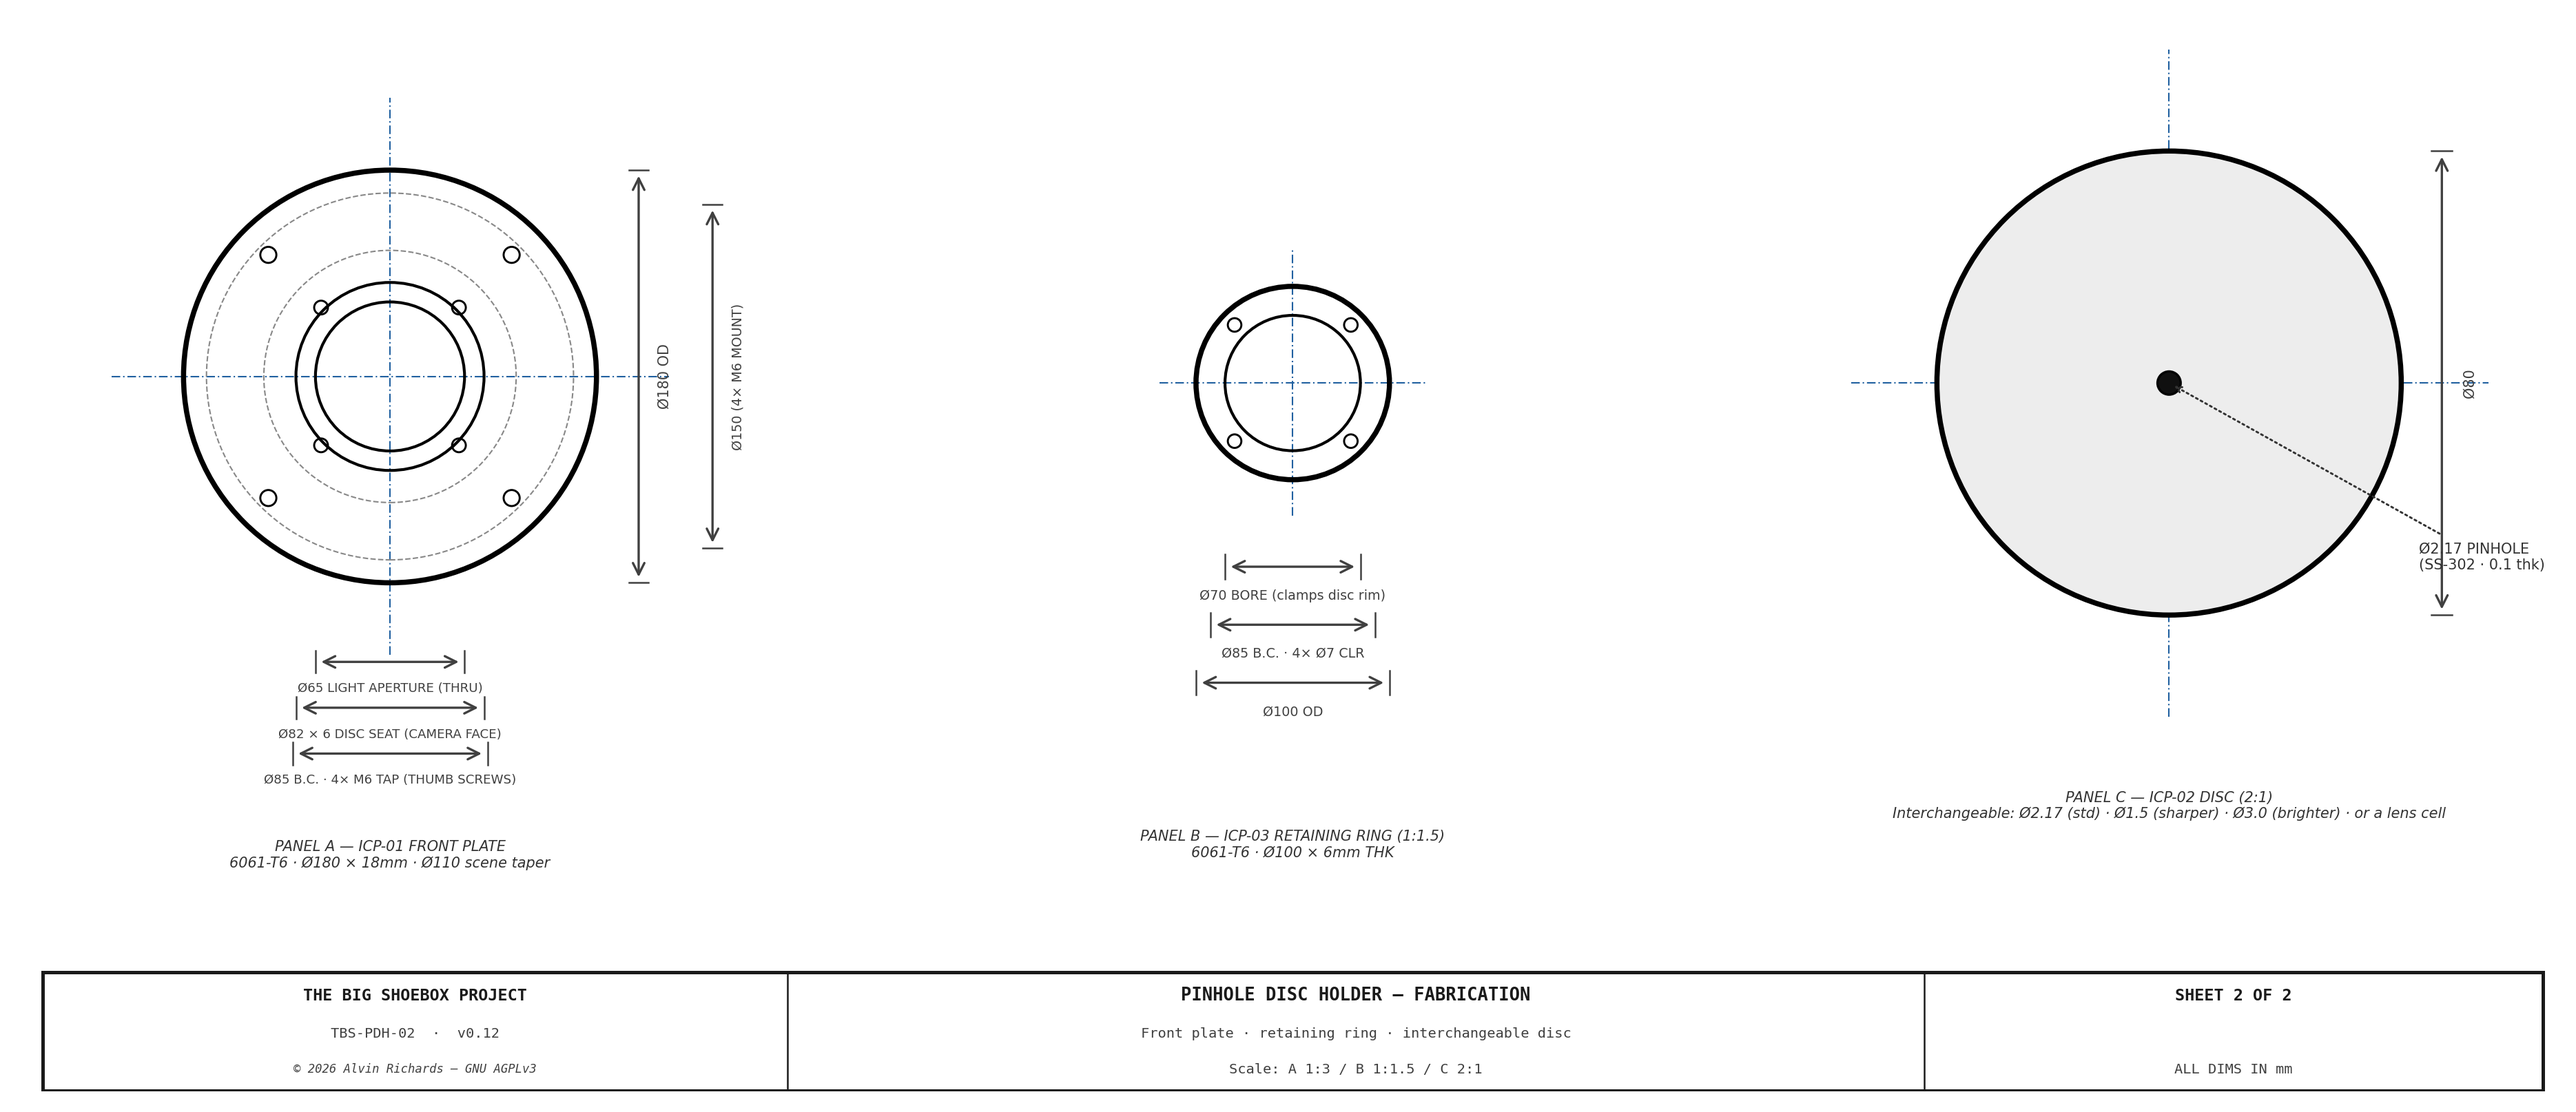
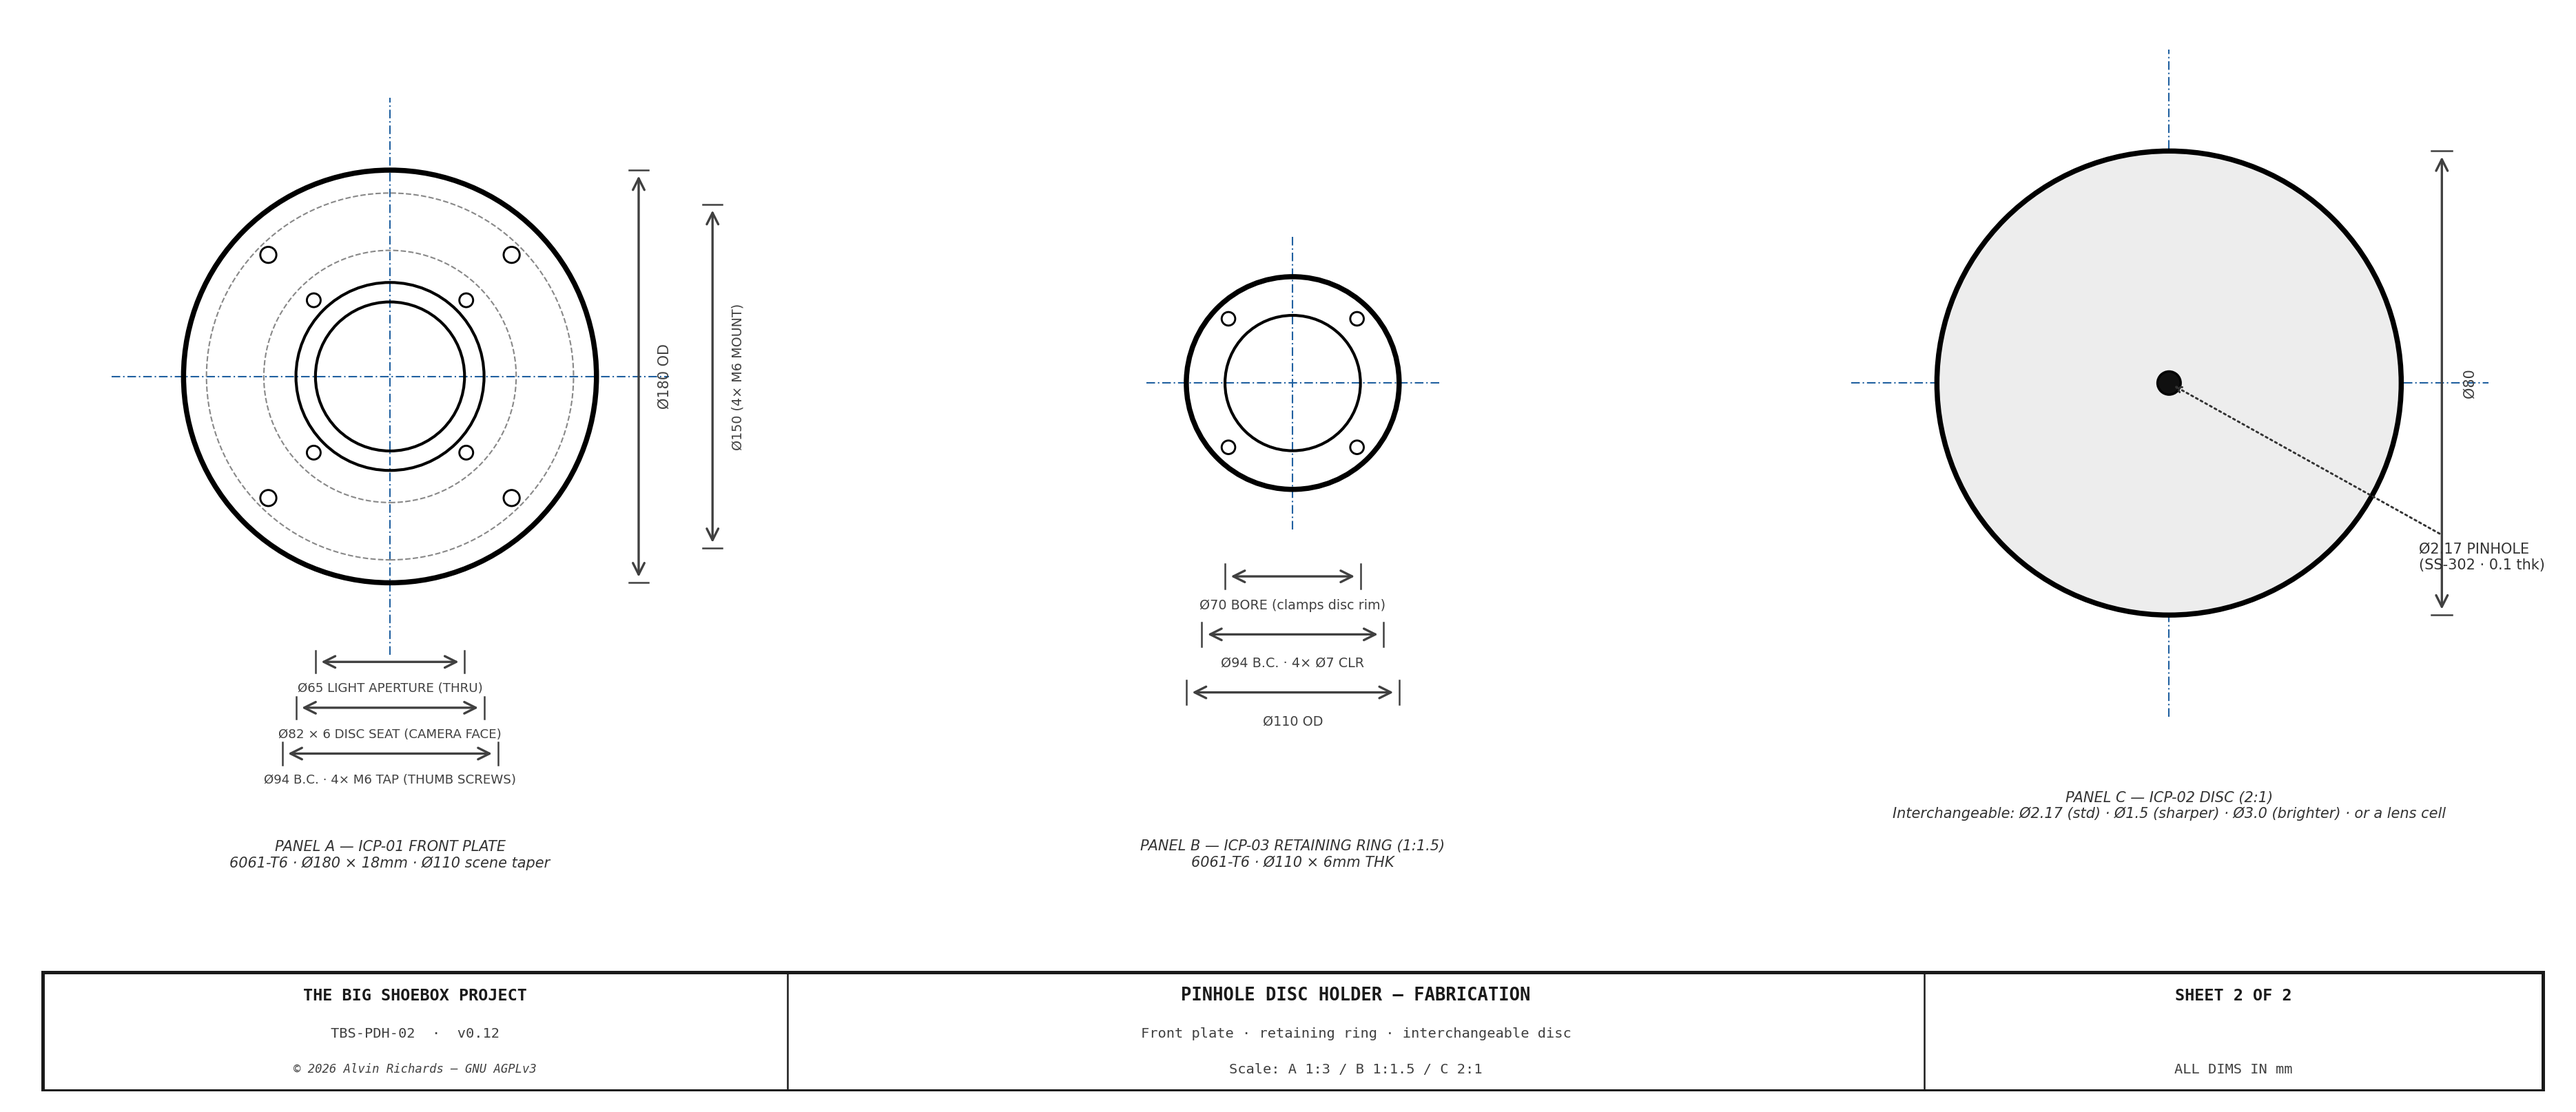
Disc holder: move thumb-screw taps outboard of the Ø82 counterbore
The Ø80-carrier resize left the M6 thumb-screw tapped holes (Ø85 PCD) only
3mm outside the Ø82 disc-seat counterbore, so the counterbore rim cut
through the Ø6.6 taps — the threads couldn't get full engagement (visible
as a circle crossing the tapped holes in the 3D model).

Fix: PDH_TS_PCD 85 -> 94 (taps clear the counterbore by 2.7mm) and
PDH_RING_OD 100 -> 110 (so the ring's screw clearance holes + knobs keep
proper edge distance). Still fits the Ø180 plate. Report §2/§8 + parts
ring spec updated; cost unchanged (ring cut from the plate offcut).

Disc-holder .skp re-sent; overview/water/construction re-flag on PDH_RING_OD
(the 10mm change is invisible at whole-container scale) — re-send pending.

diff --git a/src/generators/parts.py b/src/generators/parts.py
@@ -1147,7 +1147,7 @@ PARTS: list[Part] = [
          spec="6061-T6 round bar Ø190×22mm — machined to the Ø180×18 front plate (Ø65 aperture, Ø110 scene taper, Ø82 carrier seat 6 deep, 4× M6 mount @ Ø150 + 4× M6 tap). SKU pending — source."),
     Part("pdh-ring-stock", "ICP-03 retaining-ring stock — 6061-T6", "aluminum",
          "front-board", 1, "ea", 8, 8, "Metal Supermarkets", "Online Metals",
-         spec="6061-T6 stock — machined to the Ø100 OD × Ø70 bore × 6 retaining ring (4× M6 clearance @ Ø85). Can be cut from the plate offcut. SKU pending — source."),
+         spec="6061-T6 stock — machined to the Ø110 OD × Ø70 bore × 6 retaining ring (4× M6 clearance @ Ø94). Can be cut from the plate offcut. SKU pending — source."),
     Part("pdh-washer", "Neoprene light-seal washer (Ø82×Ø65×1.5)", "seals-gaskets",
          "front-board", 1, "ea", 3, 6, "McMaster-Carr", "Grainger",
          spec="Neoprene washer Ø82 OD × Ø65 ID × 1.5mm — the carrier presses against it under the retaining ring, sealing the aperture. Cut from neoprene sheet or a stock washer. SKU pending — source."),
@@ -1165,7 +1165,7 @@ PARTS: list[Part] = [
          spec="4 off — mount the Ø180 plate to the wall-frame adapter at Ø150. M6×20 SHCS 18-8 SS. SKU pending — source."),
     Part("pdh-cnc", "CNC machining — front plate + retaining ring (service)", "fabrication-labor",
          "front-board", 1, "job", 150, 350, "Fictiv", "ProtoLabs",
-         spec="Machine the Ø180 front plate (Ø65 aperture, Ø110 scene taper, Ø82 counterbore 6 deep, 4× M6 mount @ Ø150 + 4× M6 tap) and the Ø100 retaining ring from 6061-T6. SKU pending — fab quote."),
+         spec="Machine the Ø180 front plate (Ø65 aperture, Ø110 scene taper, Ø82 counterbore 6 deep, 4× M6 mount @ Ø150 + 4× M6 tap @ Ø94) and the Ø110 retaining ring from 6061-T6. SKU pending — fab quote."),
     Part("pdh-anodise", "Anodize — front plate + ring (service)", "adhesives-finishes",
          "front-board", 1, "job", 40, 80, "Pac-Nor Anodizing",
          spec="Black anodize the front plate + retaining ring (matte, non-reflective at the aperture). SKU pending — shop quote."),]

diff --git a/src/generators/tbs_constants.py b/src/generators/tbs_constants.py
@@ -268,11 +268,11 @@ PDH_DISC_SEAT_DEP = 6     # seat depth — deep enough to positively locate the 
 PDH_WASHER_OD     = 82    # neoprene light-seal washer OD — the carrier presses against it
 PDH_WASHER_ID     = 65    # washer bore (clears the Ø65 aperture)
 PDH_WASHER_T      = 1.5   # washer thickness (compresses to seal)
-PDH_RING_OD       = 100   # circular retaining ring OD (6061-T6)
+PDH_RING_OD       = 110   # circular retaining ring OD (6061-T6) — houses the Ø94 thumb screws with edge margin
 PDH_RING_ID       = 70    # ring bore — smaller than the carrier OD so it clamps the rim; clears the light path
 PDH_RING_T        = 6     # ring thickness (stiffened for the lens clamp)
 PDH_TS_N          = 4     # 4 thumb screws hold the ring down
-PDH_TS_PCD        = 85    # thumb-screw bolt circle (in the ring band, clear of the Ø70 bore)
+PDH_TS_PCD        = 94    # thumb-screw bolt circle — OUTSIDE the Ø82 carrier counterbore so the taps get full engagement
 PDH_TS_D          = 6     # M6 knurled thumb screws (clamp force for a lens board)
 PDH_PINHOLE_D     = 2.17  # standard pinhole Ø (Rayleigh optimum at the 2362mm focal length, f/1088)
 

diff --git a/pinhole-disc-holder-report.md b/pinhole-disc-holder-report.md
@@ -14,11 +14,11 @@ There is **no tilt or swing**. A pinhole is a point aperture: the image is a cen
 
 The holder is a compact front board mounted to the wall-frame adapter with a small bolt pattern (the adapter is part of this design, so it carries the matching pattern). Four elements:
 
-- **ICP-01 Front plate** — **Ø180 round × 18mm** 6061-T6. Mounts to the wall-frame adapter (**4× M6 @ Ø150**); a Ø110 scene-side taper bore converging to a Ø65 light-aperture clearance bore; a Ø82 × 6mm counterbore that seats the carrier and reacts the weight of a lens; four M6 taps on a Ø85 circle for the thumb screws.
+- **ICP-01 Front plate** — **Ø180 round × 18mm** 6061-T6. Mounts to the wall-frame adapter (**4× M6 @ Ø150**); a Ø110 scene-side taper bore converging to a Ø65 light-aperture clearance bore; a Ø82 × 6mm counterbore that seats the carrier and reacts the weight of a lens; four M6 taps on a Ø94 circle (outboard of the counterbore) for the thumb screws.
 - **Light-seal washer** — Ø82 OD × Ø65 ID × 1.5mm neoprene. The carrier presses against it, sealing the aperture under the clamp.
 - **Interchangeable carrier (ICP-02)** — **Ø80** outer diameter: either a pinhole board (SS-302 shim, pinhole Ø per selection) or a **large-format lens board** carrying a Copal/Compur 0, 1 or 3 shutter (see §3).
-- **Circular retaining ring (ICP-03)** — Ø100 OD × Ø70 bore × 6mm 6061-T6. The Ø70 bore is smaller than the carrier so the ring clamps its rim; it clears the light path.
-- **Four thumb screws** — M6 knurled, on the Ø85 circle, into the plate.
+- **Circular retaining ring (ICP-03)** — Ø110 OD × Ø70 bore × 6mm 6061-T6. The Ø70 bore is smaller than the carrier so the ring clamps its rim; it clears the light path.
+- **Four thumb screws** — M6 knurled, on the Ø94 circle, into the plate.
 
 **Quick-change:** loosen the four thumb screws → lift the retaining ring → swap the carrier → replace the ring → finger-tighten the thumb screws. About 30 seconds, no tools.
 
@@ -67,7 +67,7 @@ The same Ø80 carrier accepts a lens board drilled for a standard large-format s
 
 Board-hole diameters per the [Intrepid Camera Large-Format Lens Explorer](https://intrepidcamera.co.uk/blogs/guides/the-large-format-lens-explorer) (§11).
 
-**Carrying a lens's weight.** A large-format lens is cantilevered forward of the board, so the retention is designed to react its weight and tipping moment: the board seats **6mm deep** in the Ø82 counterbore (which takes the shear and the moment against its wall — not the clamp), and the Ø100 × 6mm ring is drawn down by **four M6 knurled thumb screws** (up from M5) for axial clamp force. For a heavy, permanently-mounted Copal 3 lens the thumb screws are simply run down firm; the seat, not the screws, carries the load.
+**Carrying a lens's weight.** A large-format lens is cantilevered forward of the board, so the retention is designed to react its weight and tipping moment: the board seats **6mm deep** in the Ø82 counterbore (which takes the shear and the moment against its wall — not the clamp), and the Ø110 × 6mm ring is drawn down by **four M6 knurled thumb screws** (up from M5) for axial clamp force. For a heavy, permanently-mounted Copal 3 lens the thumb screws are simply run down firm; the seat, not the screws, carries the load.
 
 ---
 
@@ -116,7 +116,7 @@ Swap time: about 30 seconds. The whole front board can also be unbolted from the
 | Front-plate carrier counterbore Ø82 | Ø82.000 | H7: +0.035/0.000 | Carrier seats concentric with the optical axis; reacts a lens's weight/moment |
 | Carrier seat depth | 6.000mm | +0.1/0.0 | Positive location + moment reaction for a lens board |
 | Light-aperture bore Ø65 | Ø65.000 | +0.2/0.0 | Clearance only — clears a Copal 3 hole, must not vignette |
-| Thumb-screw PCD Ø85 | Ø85.000 | ±0.2mm positional | Even clamp of the retaining ring |
+| Thumb-screw PCD Ø94 | Ø94.000 | ±0.2mm positional | Even clamp of the retaining ring; outboard of the Ø82 counterbore |
 | Retaining-ring bore Ø70 | Ø70.000 | ±0.1mm | Clamps the carrier rim without fouling the light path |
 | Mount bolts M6 PCD | Ø150.000 | ±0.15mm positional | Must match the wall-frame adapter |
 
@@ -130,13 +130,13 @@ The BOM is single-sourced from the parts registry (`parts.py`) and generated bel
 | Item | Spec | Qty | Supplier | Est. cost |
 |------|------|-----|----------|-----------|
 | ICP-01 front-plate stock — 6061-T6 round bar Ø190×22 | 6061-T6 round bar Ø190×22mm — machined to the Ø180×18 front plate (Ø65 aperture, Ø110 scene taper, Ø82 carrier seat 6 deep, 4× M6 mount @ Ø150 + 4× M6 tap). SKU pending — source. | 1 ea | Metal Supermarkets / Online Metals | $22 |
-| ICP-03 retaining-ring stock — 6061-T6 | 6061-T6 stock — machined to the Ø100 OD × Ø70 bore × 6 retaining ring (4× M6 clearance @ Ø85). Can be cut from the plate offcut. SKU pending — source. | 1 ea | Metal Supermarkets / Online Metals | $8 |
+| ICP-03 retaining-ring stock — 6061-T6 | 6061-T6 stock — machined to the Ø110 OD × Ø70 bore × 6 retaining ring (4× M6 clearance @ Ø94). Can be cut from the plate offcut. SKU pending — source. | 1 ea | Metal Supermarkets / Online Metals | $8 |
 | Neoprene light-seal washer (Ø82×Ø65×1.5) | Neoprene washer Ø82 OD × Ø65 ID × 1.5mm — the carrier presses against it under the retaining ring, sealing the aperture. Cut from neoprene sheet or a stock washer. SKU pending — source. | 1 ea | McMaster-Carr / Grainger | $3–$6 |
 | [Pinhole board set — SS-302 (Ø2.17 / Ø1.5 / Ø3.0)](https://lenoxlaser.com/) | Ø80 × 0.1mm SS-302 laser-drilled pinhole boards — Ø2.17 (Rayleigh optimum), Ø1.5 (sharper), Ø3.0 (brighter). 3 off (the interchangeable set). SKU pending — quote (Lenox Laser). | 3 ea | Lenox Laser / Edmund Optics | $60–$120 |
 | Ø80 lens board — Copal/Compur 0/1/3 (optional) | Ø80 × ~4mm 6061 lens board drilled for a Copal/Compur 0 (34.6), 1 (41.6) or 3 (61.5) shutter — drops into the holder to run the camera as a lens optic. The large-format LENS itself is user-supplied (out of BOM). Optional. SKU pending — source. | 1 ea | SK Grimes / Local fab | $10–$30 |
 | [M6 knurled thumb screws, 4× (retaining ring)](https://www.mcmaster.com/products/thumb-screws/) | M6 knurled-head thumb screws — clamp the retaining ring (lens-board clamp force), finger-tightened for quick carrier change. 4 off. SKU pending — source. | 4 ea | McMaster-Carr / Bolt Depot | $8–$16 |
 | M6×20 SHCS 18-8 SS, 4× (plate → adapter) | 4 off — mount the Ø180 plate to the wall-frame adapter at Ø150. M6×20 SHCS 18-8 SS. SKU pending — source. | 4 ea | McMaster-Carr / Bolt Depot | $4 |
-| CNC machining — front plate + retaining ring (service) | Machine the Ø180 front plate (Ø65 aperture, Ø110 scene taper, Ø82 counterbore 6 deep, 4× M6 mount @ Ø150 + 4× M6 tap) and the Ø100 retaining ring from 6061-T6. SKU pending — fab quote. | 1 job | Fictiv / ProtoLabs | $150–$350 |
+| CNC machining — front plate + retaining ring (service) | Machine the Ø180 front plate (Ø65 aperture, Ø110 scene taper, Ø82 counterbore 6 deep, 4× M6 mount @ Ø150 + 4× M6 tap @ Ø94) and the Ø110 retaining ring from 6061-T6. SKU pending — fab quote. | 1 job | Fictiv / ProtoLabs | $150–$350 |
 | Anodize — front plate + ring (service) | Black anodize the front plate + retaining ring (matte, non-reflective at the aperture). SKU pending — shop quote. | 1 job | Pac-Nor Anodizing | $40–$80 |
 | **Front-Board total** | | | | **$305–$636** |
 <!-- END parts:front-board -->
